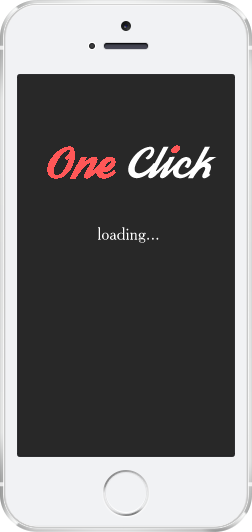
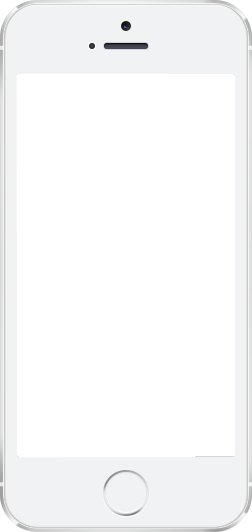
google form added

diff --git a/index.html b/index.html
@@ -32,9 +32,16 @@
 <body class="no-js">
     <div class="main">
         <div class="header-wrap" data-parallax="scroll" data-image-src="images/pic1.jpg" data-speed="0.4">
-        <header>
+        <header> 
+
+<!--             <div class="extra-wrap">
+                <img src="upload/iphone.png" height="532" width="252" alt="" class="header-img wow fadeInRightBig"> -->
             <div class="wrap">
-                <img src="upload/iphone.png" height="532" width="252" alt="" class="header-img wow fadeInRightBig">
+                <div class ="slide-wrap wow fadeInRightBig">
+                    <div class="img-slide">
+                        <img src="images/slide1.jpg" alt="">
+                    </div>
+                </div>
                 <div class="header-wrapper">
                     <div class="header-bcg wow fadeInDown">
                     <!-- <h1 class="title">One Click <span>App</span></h1> -->
@@ -43,10 +50,22 @@
 
                     <p class="shadow">Buy instantly in online stores with our app one click.</p>
                     <p class="shadow">Join us now and be the first to try our service!</p>
-                    <form action="#" class="clearfix">
+
+                    <!-- changing confirmation behavior of google forms-->
+
+                    <script type="text/javascript">var submitted=false;</script>
+                    <iframe name="hidden_iframe" id="hidden_iframe"
+                    style="display:none;" onload="if(submitted)
+                    {alert('Thank you! Your response has  been recordered.');
+                     clearInput();
+                    }">
+                    </iframe>
+
+
+                    <form action="https://docs.google.com/forms/d/1YC7mycLRGtZFmCSHUYKt4BcOYME2akzY1ZBICB4th4g/formResponse" method="POST" id="ss-form" target="hidden_iframe" onsubmit="submitted=true;" class="clearfix ss-question-list">
                             <div class="group" class="clearfix">
                                 <div class="crazy">    
-                                      <input type="text" required>
+                                      <input type="text" name="entry.1544415831" class="ss-q-short required" id="entry_1544415831" dir="auto" aria-label="jdfjdfdf fddfd " aria-required="true" required="" title="">
                                       <span class="highlight"></span>
                                       <span class="bar"></span>
                                       <label>Your e-mail address</label>
@@ -75,6 +94,7 @@
                 <!-- /.header-wrapper -->
             </div>
             <!-- /.wrap -->
+<!--         </div> -->
         </header>
     </div>
 
@@ -202,6 +222,7 @@
     <script src="js/index.js"></script>
     <script src="js/parallax.min.js"></script>
     <script>
+    // contdown
         new WOW().init();
 
         $('#example').countdown({
@@ -209,8 +230,14 @@
         }, function () {
           alert('Happy New Year!');
         });
+        
+        function clearInput(){
+            document.querySelector('.crazy input').value ="";
+        }
 
        
+    // clearing input value
+
     </script>
 </body>
 </html>

diff --git a/css/style.css b/css/style.css
@@ -1324,7 +1324,7 @@ input:focus ~ .highlight {
   to    { width:0; background:transparent; }
 }
 
-/*Material Button Mathatfaka*/
+/*Material Button*/
 .button {
   position: relative;
   display: inline-block;
@@ -1462,9 +1462,25 @@ input:focus ~ .highlight {
     box-shadow: none;
     background-color: #FF7373;
 }
+
 .press:hover {
     background-color: #FE9F9F;
 }
+
 .press:active {
     background-color: #DC7777;
+}
+
+.slide-wrap {
+    float: right;
+    background-image: url(../images/iphone.png);
+    height: 532px;
+    width: 252px;
+}
+.img-slide {
+    height: 381px;
+    width: 216px;
+    background: #fff;
+    margin-top: 75px;
+    margin-left: 18px;
 }
